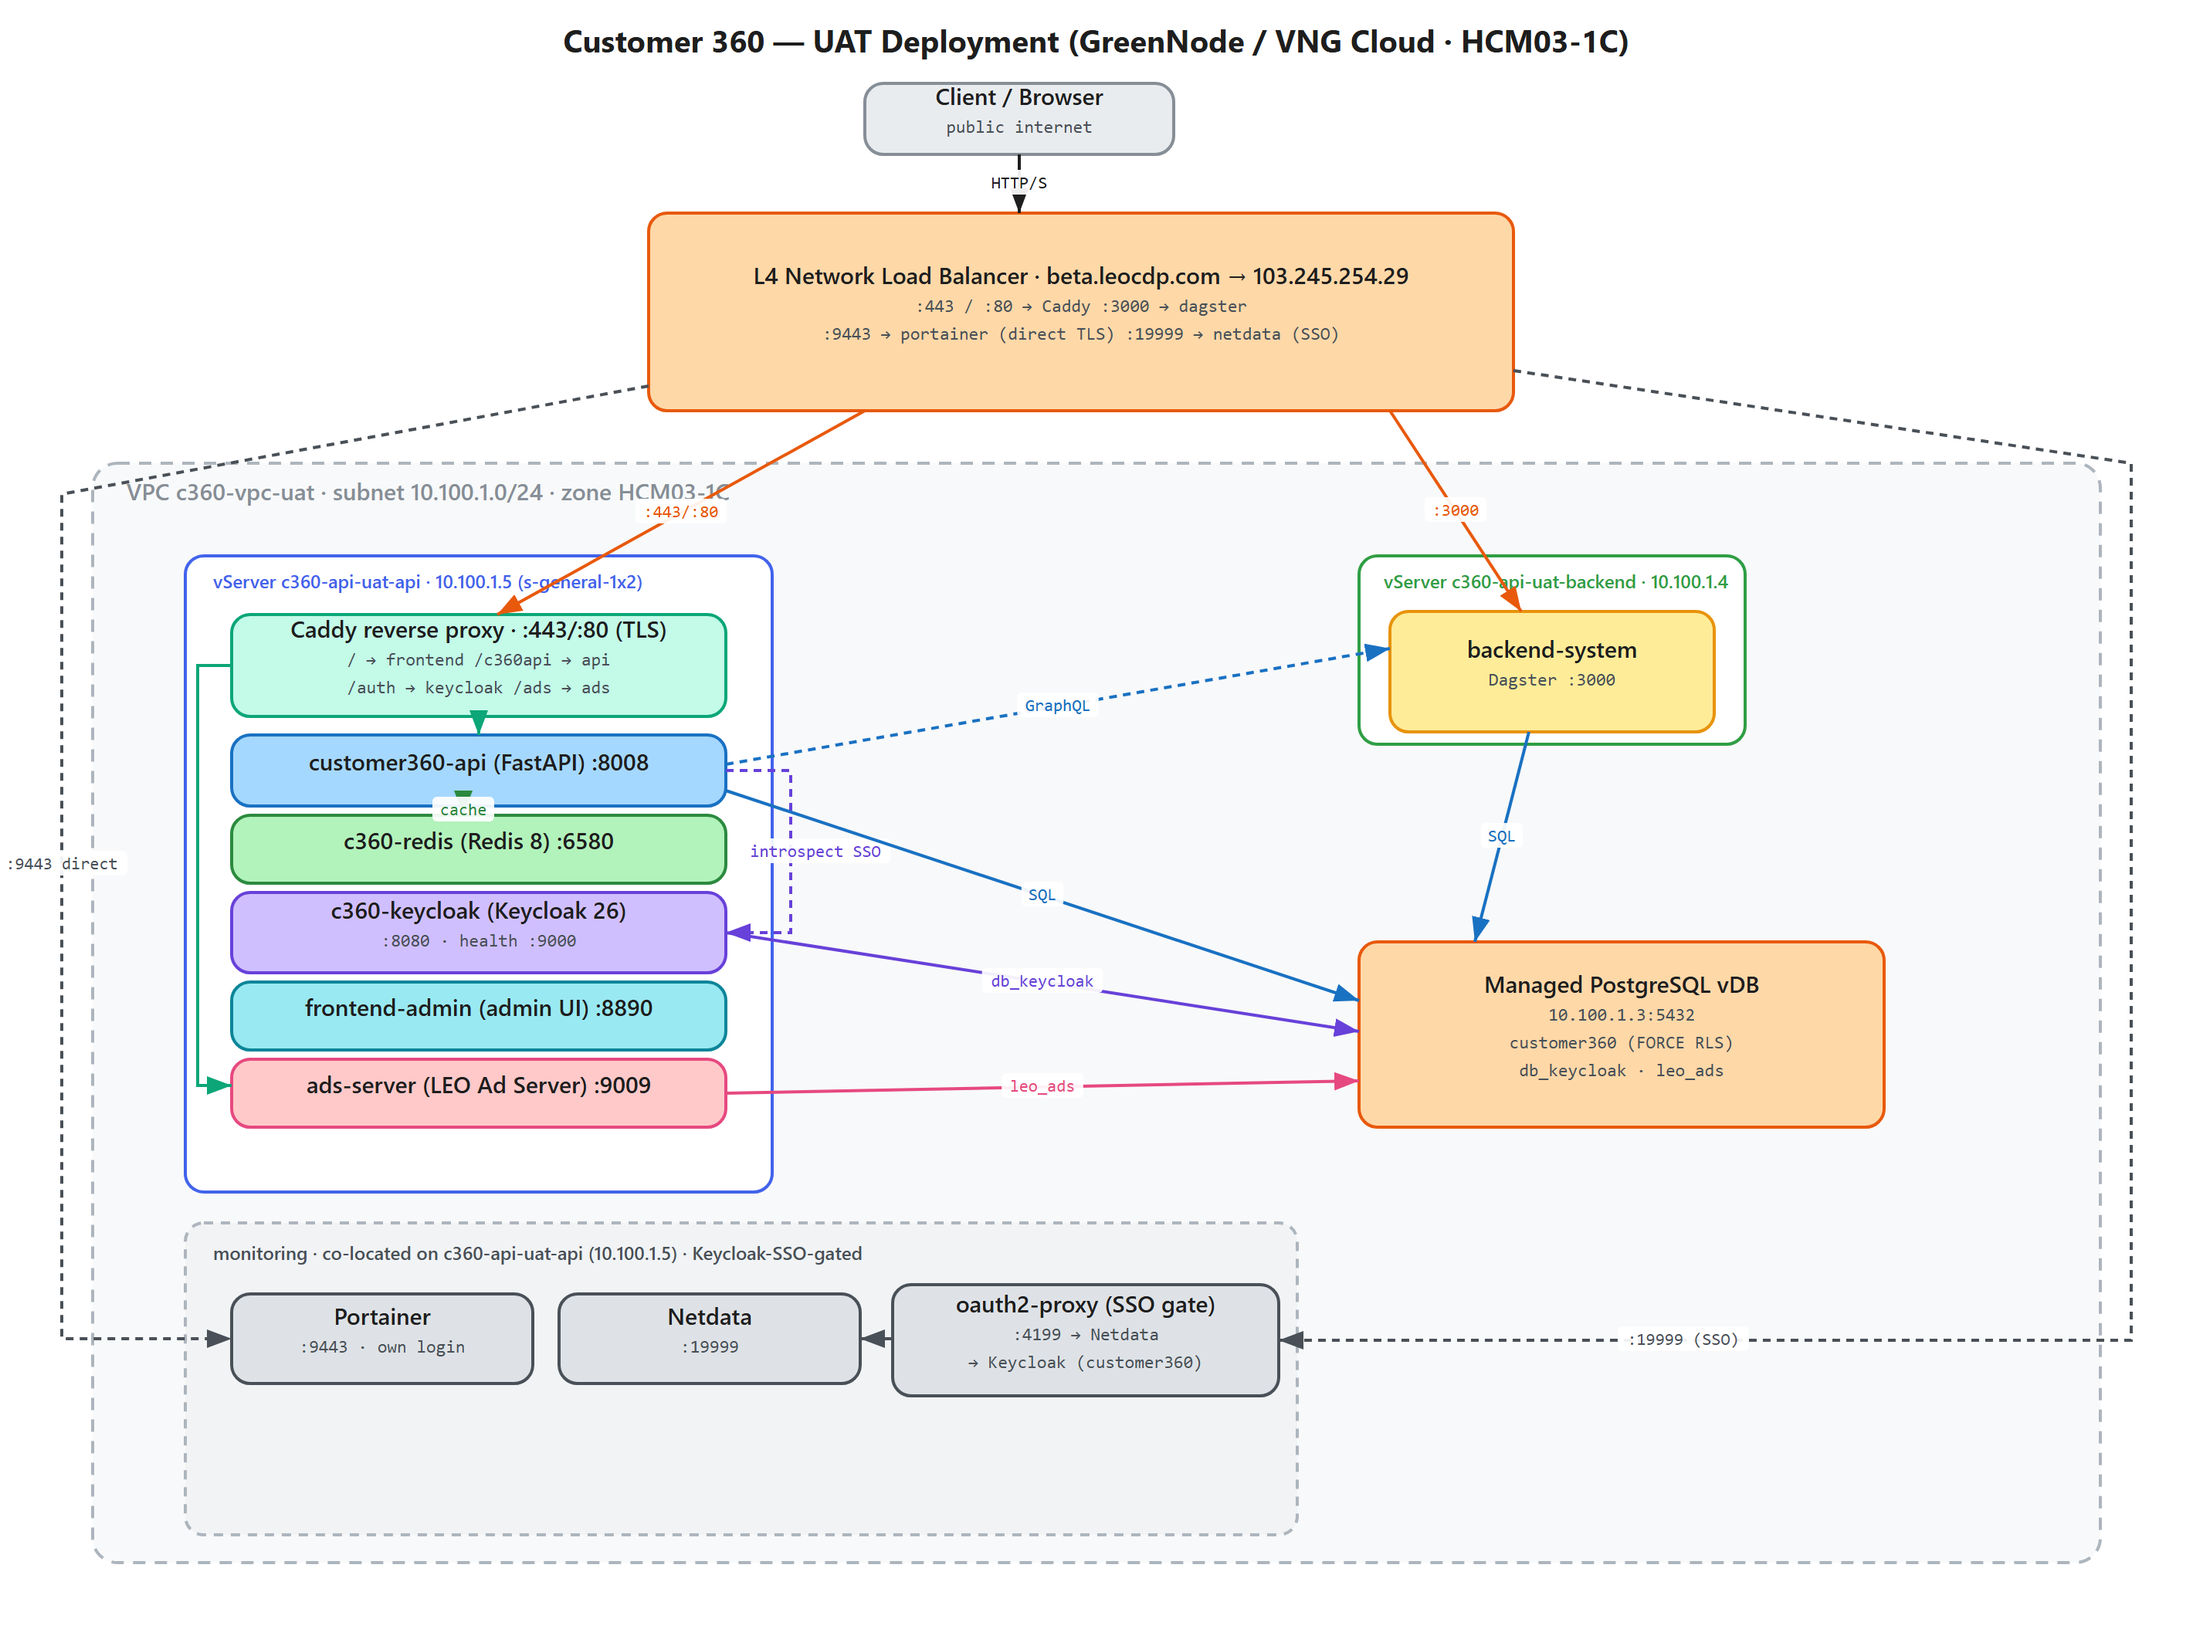
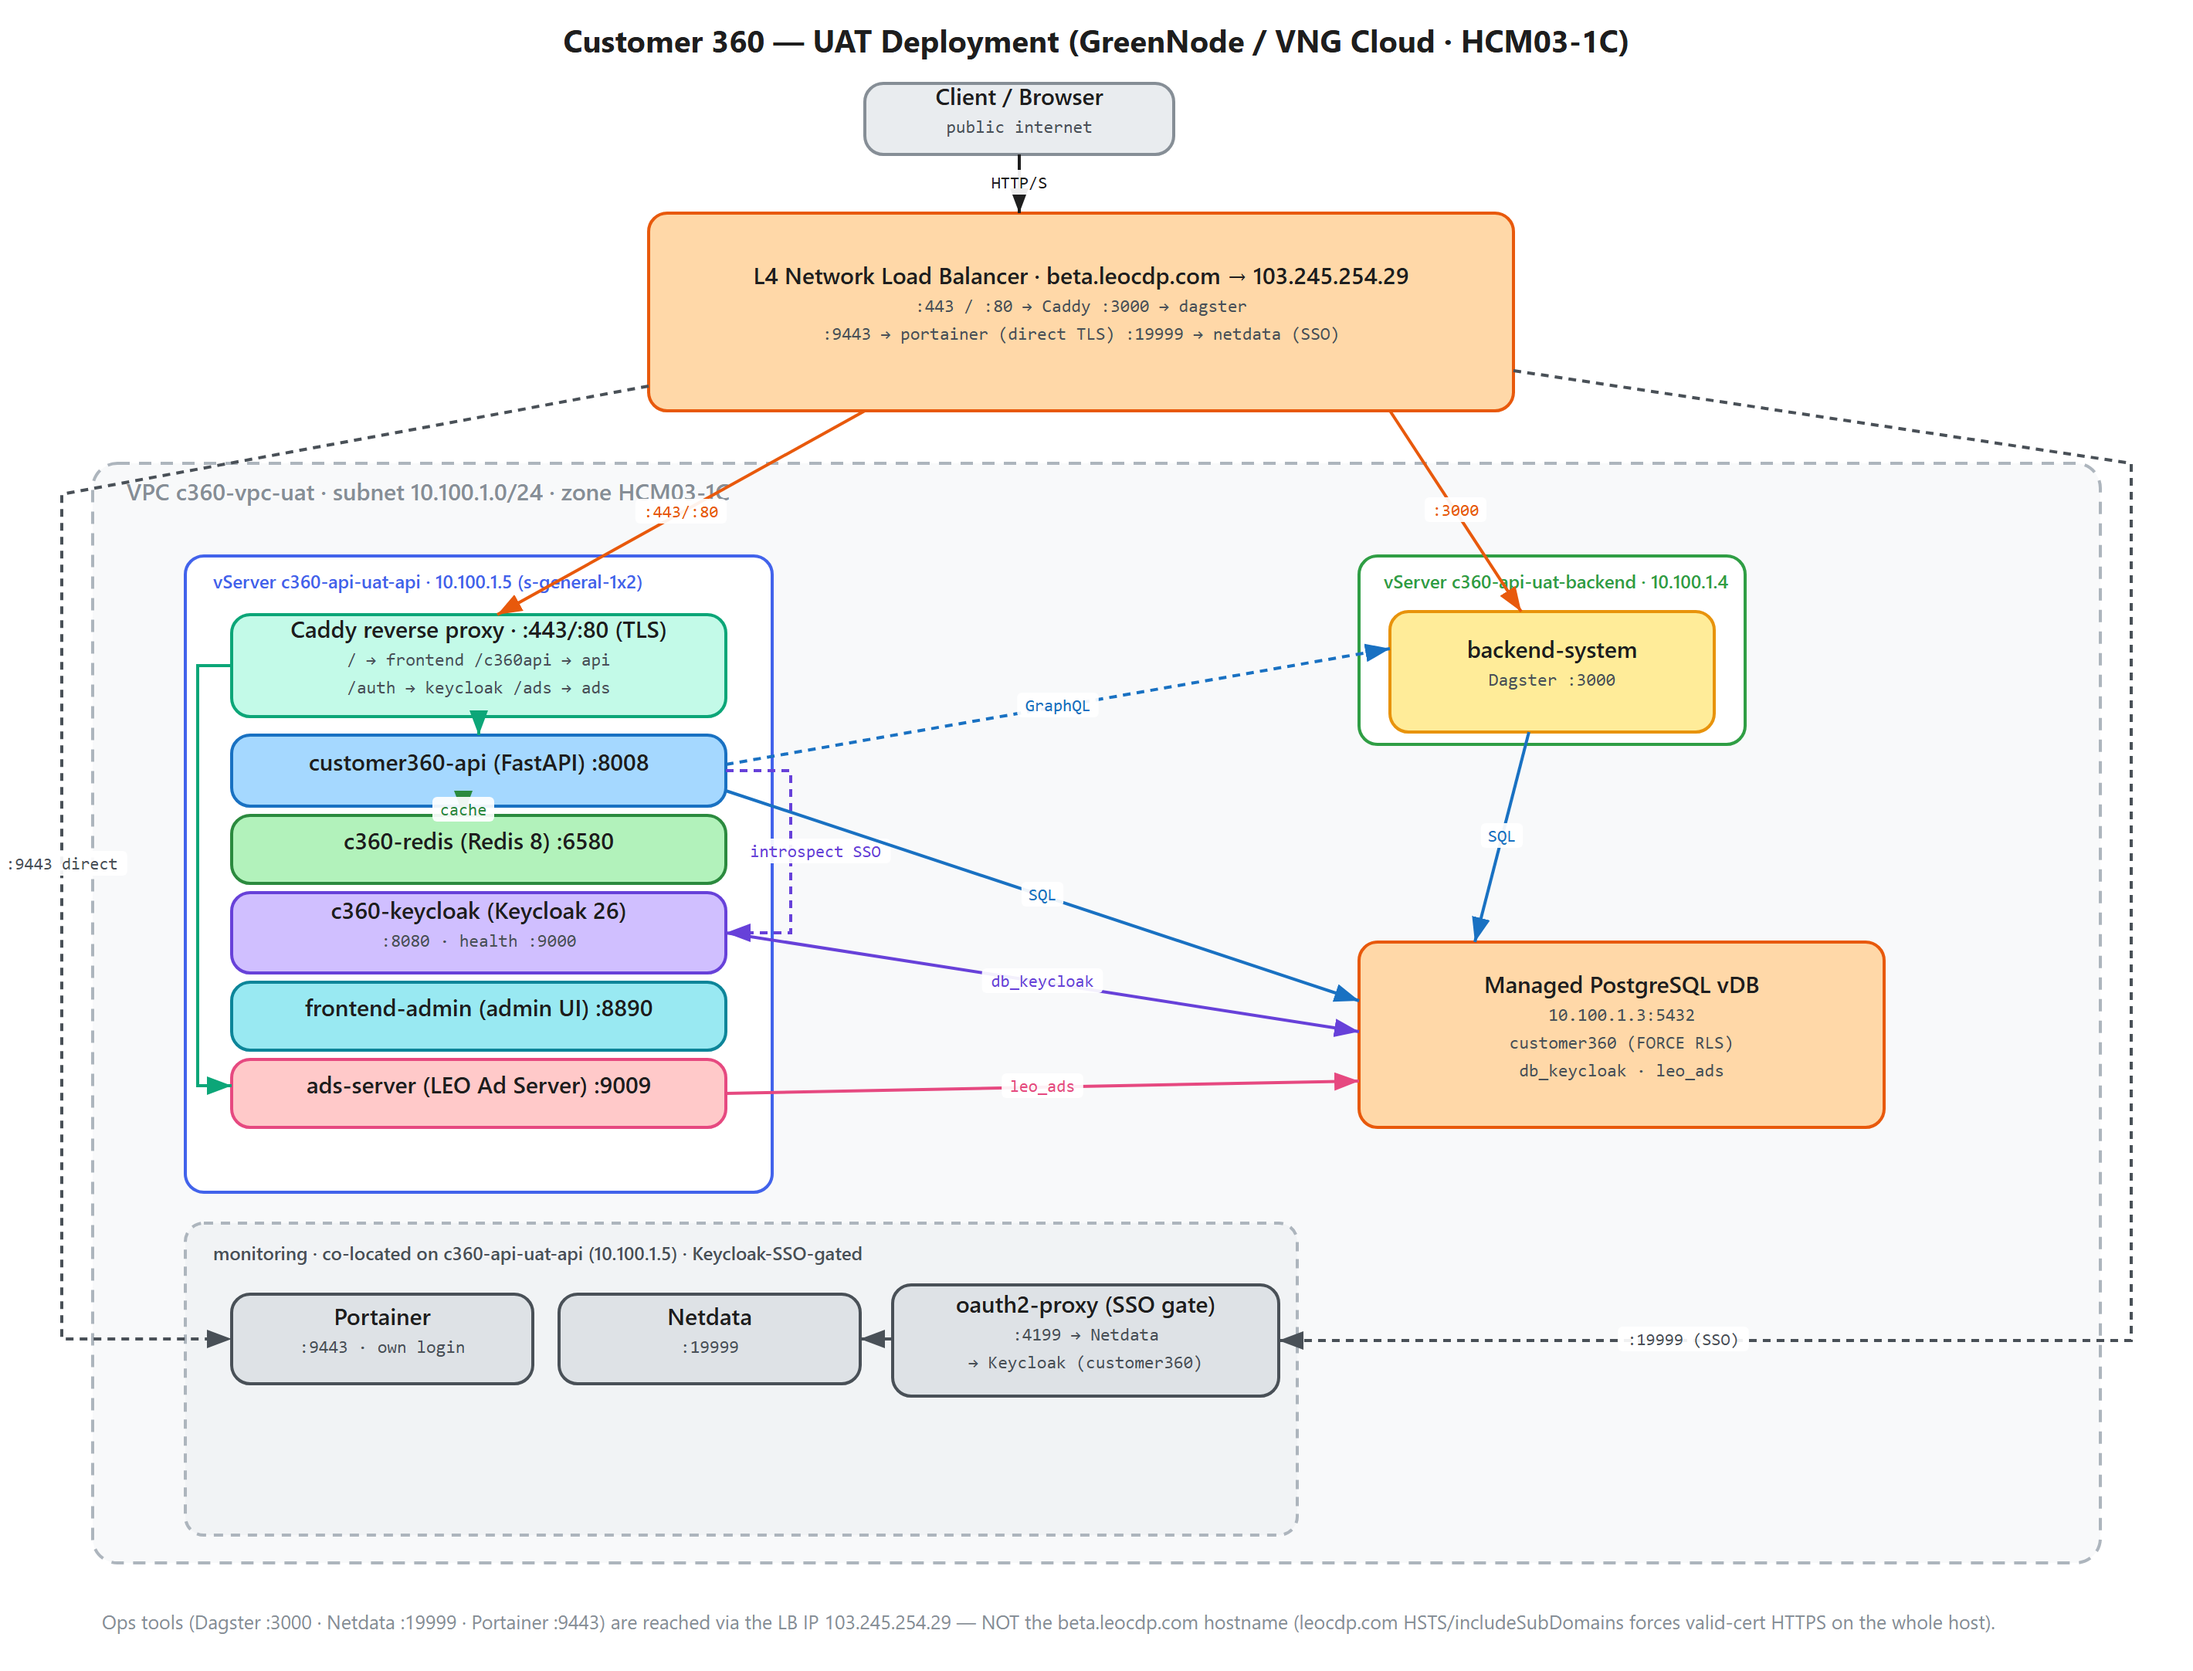
docs: reflect live beta.leocdp.com + HSTS ops access; add set-domain.sh
README:
- proxy row -> "Live" (cutover done); endpoints table shows the domain paths
  (/ /c360api /auth /ads) and points ops tools at the LB IP.
- add HSTS note: leocdp.com is HSTS-preloaded (includeSubDomains), so the whole
  beta.leocdp.com host is forced to valid-cert HTTPS on every port -> Dagster
  :3000 / Netdata :19999 / Portainer :9443 must be reached via 103.245.254.29
  (or an SSH tunnel), not the hostname.
- add "Changing the public domain" section.

set-domain.sh: change the domain in ONE place (proxy caddy_domain is the source
of truth) and propagate to the sso/frontend/monitoring overlays, preserving the
scheme + /auth /c360api /ads suffixes; --dry-run supported; prints the redeploy
order. Edits config only (docs + cutover patch untouched).

deployment-view (svg/png/excalidraw): footnote on the ops-tool-via-IP/HSTS caveat.

diff --git a/deployments/README.md b/deployments/README.md
@@ -15,7 +15,7 @@ deployment with per-env `overlays/<env>.tfvars`, Terraform workspaces, and a
 | [`ads-server`](./ads-server) | LEO Ad Server (schema `leo_ads`) — uat: container on the api box; prod: dedicated vServer |
 | [`monitoring`](./monitoring) | Portainer (direct HTTPS) + Netdata (behind oauth2-proxy / Keycloak SSO) dashboards — on the api box |
 | [`load_balancer`](./load_balancer) | L4 NLB fronting api / dagster / keycloak / frontend / ads / monitoring |
-| [`proxy`](./proxy) | **Caddy** reverse proxy — TLS termination (auto Let's Encrypt) + single-host path routing (`beta.leocdp.com`). **Staged**: built + validated, not cut over — see its [runbook](./proxy/README.md#cutover-runbook-put-the-platform-behind-betaleocdpcom) |
+| [`proxy`](./proxy) | **Caddy** reverse proxy — TLS termination (auto Let's Encrypt) + single-host path routing. **Live** at `https://beta.leocdp.com` (fronts frontend `/`, api `/c360api`, keycloak `/auth`, ads `/ads`); [runbook](./proxy/README.md#cutover-runbook-put-the-platform-behind-betaleocdpcom) |
 | [`storage`](./storage) | Object storage (vStorage / S3) |
 
 > **Scope:** this view shows the **UAT** overlay only. The prod overlay differs
@@ -171,24 +171,49 @@ flowchart TB
 
 ### Public endpoints — `beta.leocdp.com`
 
-The domain (`beta.leocdp.com`, A record → the LB public IP `103.245.254.29`) is fronted by
-**Caddy** (deployments/proxy), which terminates TLS and path-routes the browser-facing apps.
-The ops dashboards stay on their raw LB ports (they don't sub-path cleanly).
+The domain (`beta.leocdp.com`, A record → the LB public IP `103.245.254.29`) is **live**,
+fronted by **Caddy** (deployments/proxy), which terminates TLS (Let's Encrypt) and path-routes
+the browser-facing apps on `:443`. The ops dashboards stay on their raw LB ports and are reached
+via the **LB IP** (see the HSTS note below).
 
 | Service | URL | Served by |
 |---------|-----|-----------|
 | frontend-admin (UI) | `https://beta.leocdp.com/` | Caddy `/` → frontend :8890 |
-| customer360-api | `https://beta.leocdp.com/c360api` (base `…/c360api/api/v1`) | Caddy `/c360api/*` → api :8008 (prefix stripped) |
+| customer360-api | `https://beta.leocdp.com/c360api` (base `…/c360api/api/v1`) | Caddy `/c360api/*` → api :8008 (`root_path=/c360api`) |
 | Keycloak | `https://beta.leocdp.com/auth` | Caddy `/auth/*` → keycloak :8080 |
-| ads-server | `https://beta.leocdp.com/ads` | Caddy `/ads/*` → ads :9009 |
-| Portainer (own login) | `https://beta.leocdp.com:9443` | LB direct → Portainer :9443 (self-signed TLS) |
-| Netdata (SSO) | `http://beta.leocdp.com:19999` | LB → oauth2-proxy :4199 → Netdata (Keycloak login) |
-| Dagster | `http://beta.leocdp.com:3000` | LB direct → dagster :3000 |
+| ads-server (+ `/ads/docs`) | `https://beta.leocdp.com/ads` | Caddy `/ads/*` → ads :9009 (`root_path=/ads`) |
+| Portainer (own login) | `https://103.245.254.29:9443` | LB direct → Portainer :9443 (self-signed TLS) |
+| Netdata (SSO) | `http://103.245.254.29:19999` | LB → oauth2-proxy :4199 → Netdata (Keycloak login) |
+| Dagster | `http://103.245.254.29:3000` | LB direct → dagster :3000 |
 
-> The cutover overlay edits are in [`proxy/cutover-beta.leocdp.com.patch`](./proxy/cutover-beta.leocdp.com.patch);
-> the ordered deploy is the [proxy runbook](./proxy/README.md#cutover-runbook-put-the-platform-behind-betaleocdpcom).
-> Before the cutover the same services were reachable raw at `http://103.245.254.29:<80|3000|8080|8890|9009>`
-> and `https://…:9443` / `http://…:19999`.
+> ⚠ **Ops tools use the LB IP, not the `beta.leocdp.com` hostname.** The parent domain
+> `leocdp.com` is HSTS-preloaded (`includeSubDomains`), so browsers force HTTPS-with-valid-cert
+> on the **entire** `beta.leocdp.com` host, on every port — breaking the plain-HTTP (`:3000`,
+> `:19999`) and self-signed (`:9443`) ops ports (an `http://beta…:3000` gets auto-upgraded to
+> `https` and fails). The **IP is not HSTS-pinned**, so use `http://103.245.254.29:<port>`
+> (or an SSH tunnel to `localhost`). Only the `:443` Caddy front door has a trusted cert.
+>
+> The cutover was applied via [`proxy/cutover-beta.leocdp.com.patch`](./proxy/cutover-beta.leocdp.com.patch)
+> (ordered deploy: the [proxy runbook](./proxy/README.md#cutover-runbook-put-the-platform-behind-betaleocdpcom)).
+> To move to a **different domain**, edit one value and run [`set-domain.sh`](./set-domain.sh) (below).
+
+### Changing the public domain
+
+The domain has a **single source of truth** — `caddy_domain` in
+[`proxy/overlays/<env>.tfvars`](./proxy/overlays/uat.tfvars). [`set-domain.sh`](./set-domain.sh)
+reads it and propagates a change to every overlay that embeds the domain literal (sso,
+frontend, monitoring), preserving the `https://` scheme and the `/auth` · `/c360api` · `/ads`
+suffixes:
+
+```bash
+./set-domain.sh --dry-run cdp.example.com uat   # preview every line that would change
+./set-domain.sh cdp.example.com uat             # rewrite the overlays (config only, no deploy)
+```
+
+It edits config only — then point DNS at the LB IP and redeploy **in order** (the script
+prints the exact commands; full detail in the
+[proxy runbook](./proxy/README.md#cutover-runbook-put-the-platform-behind-betaleocdpcom)).
+Docs and the point-in-time `proxy/cutover-*.patch` are left untouched.
 
 ### Data flows
 
